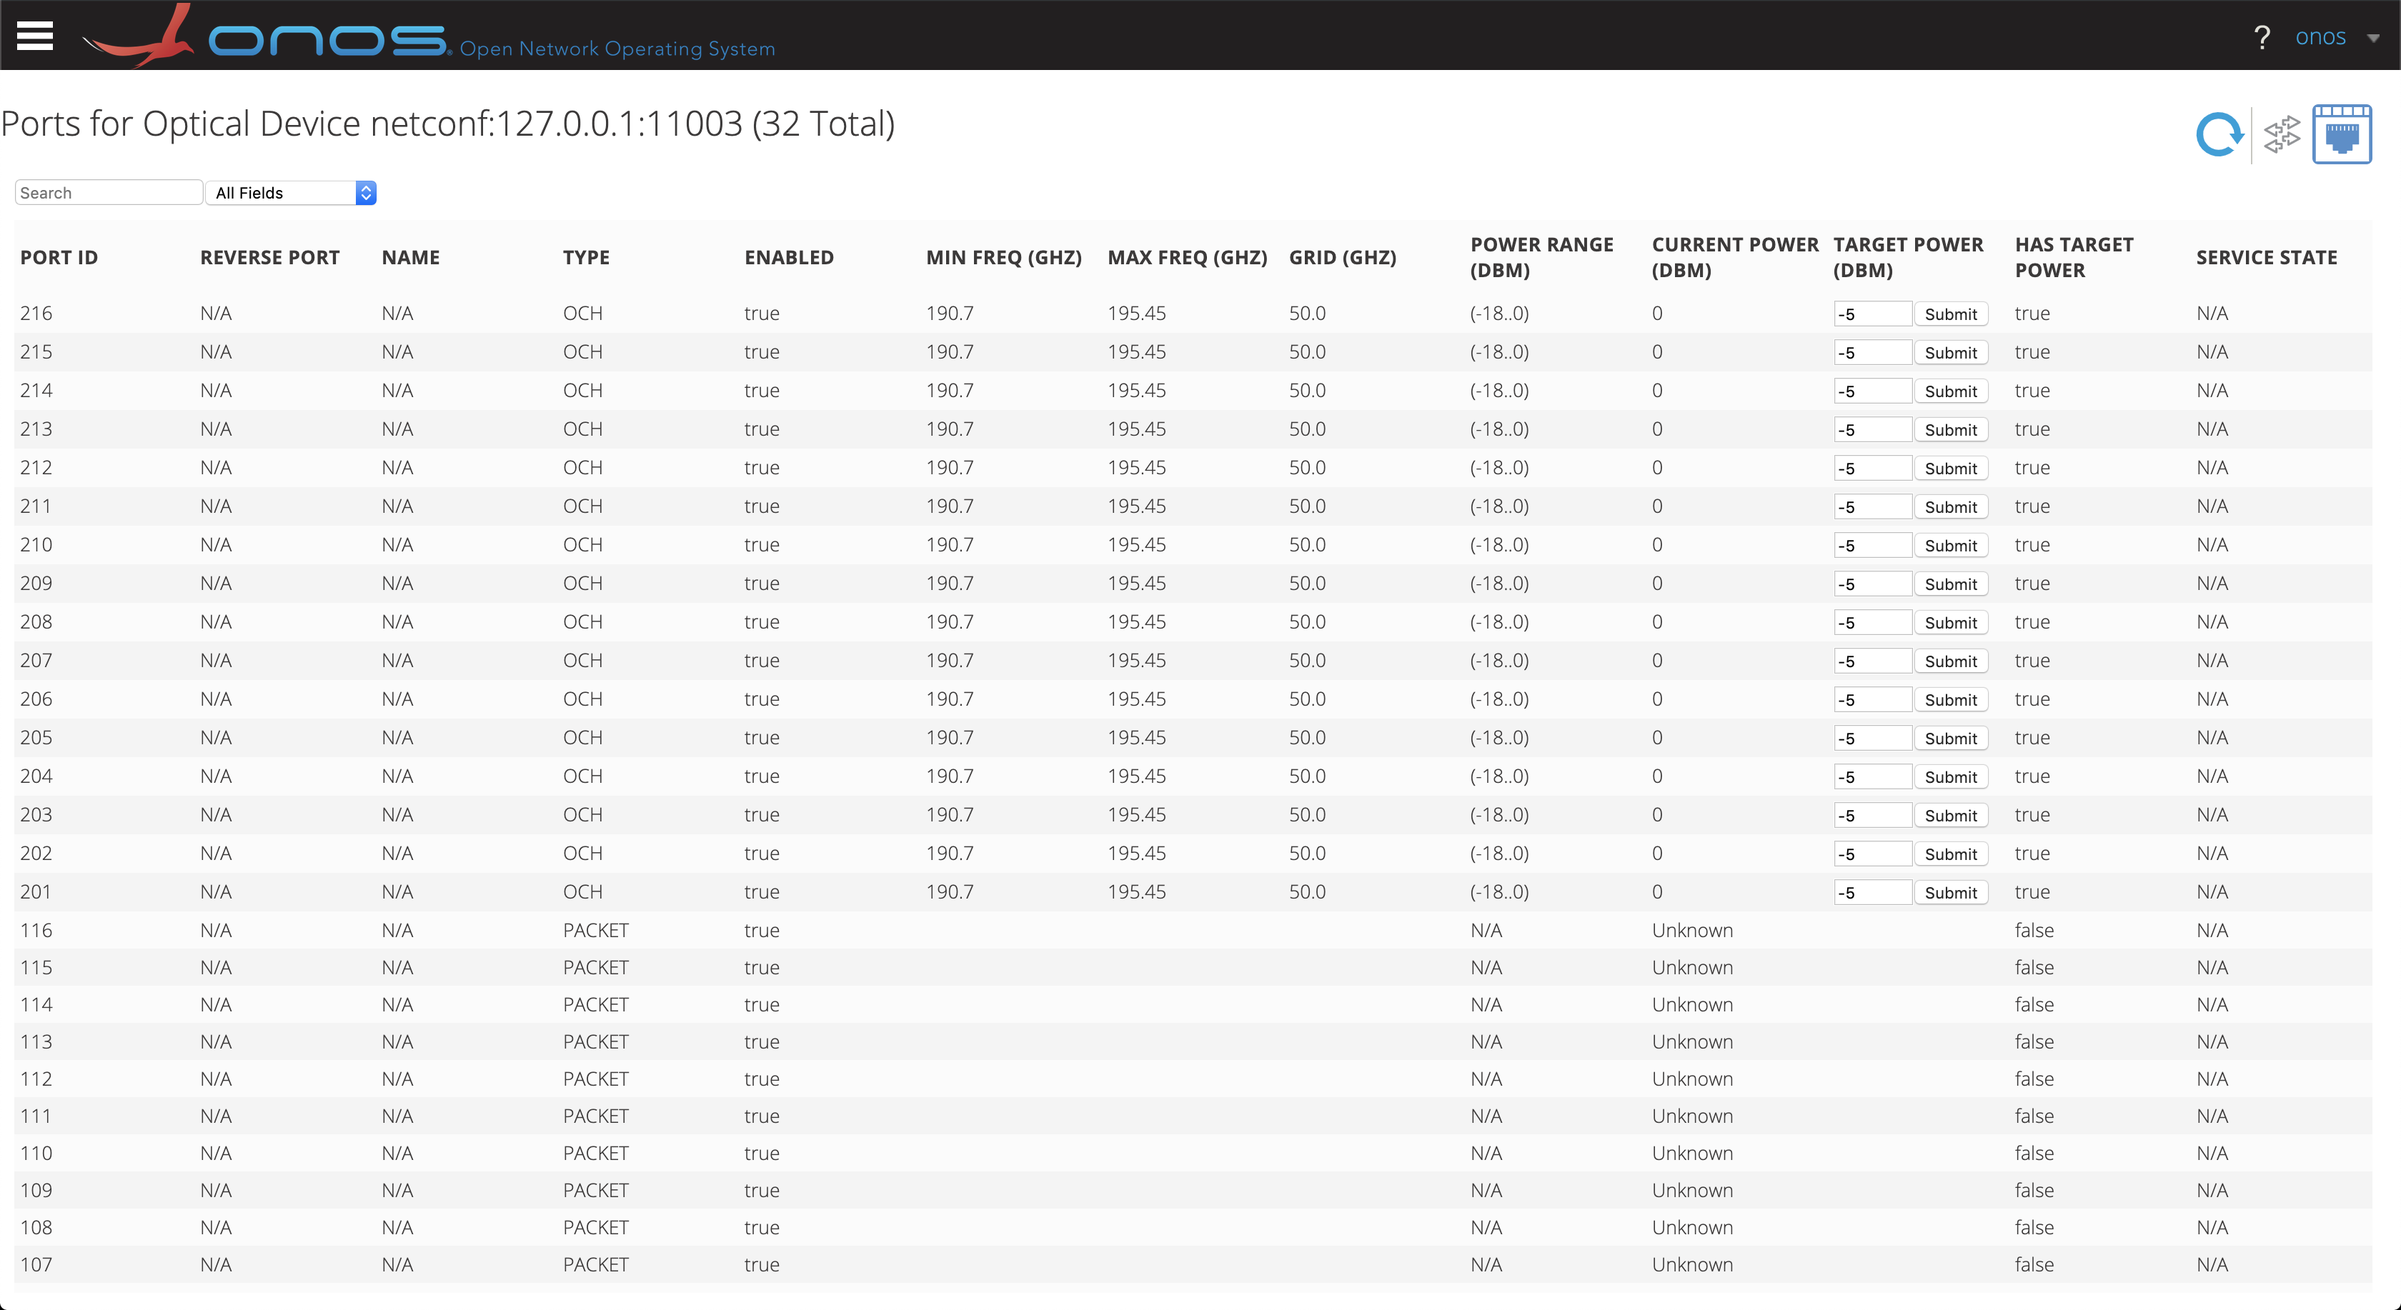
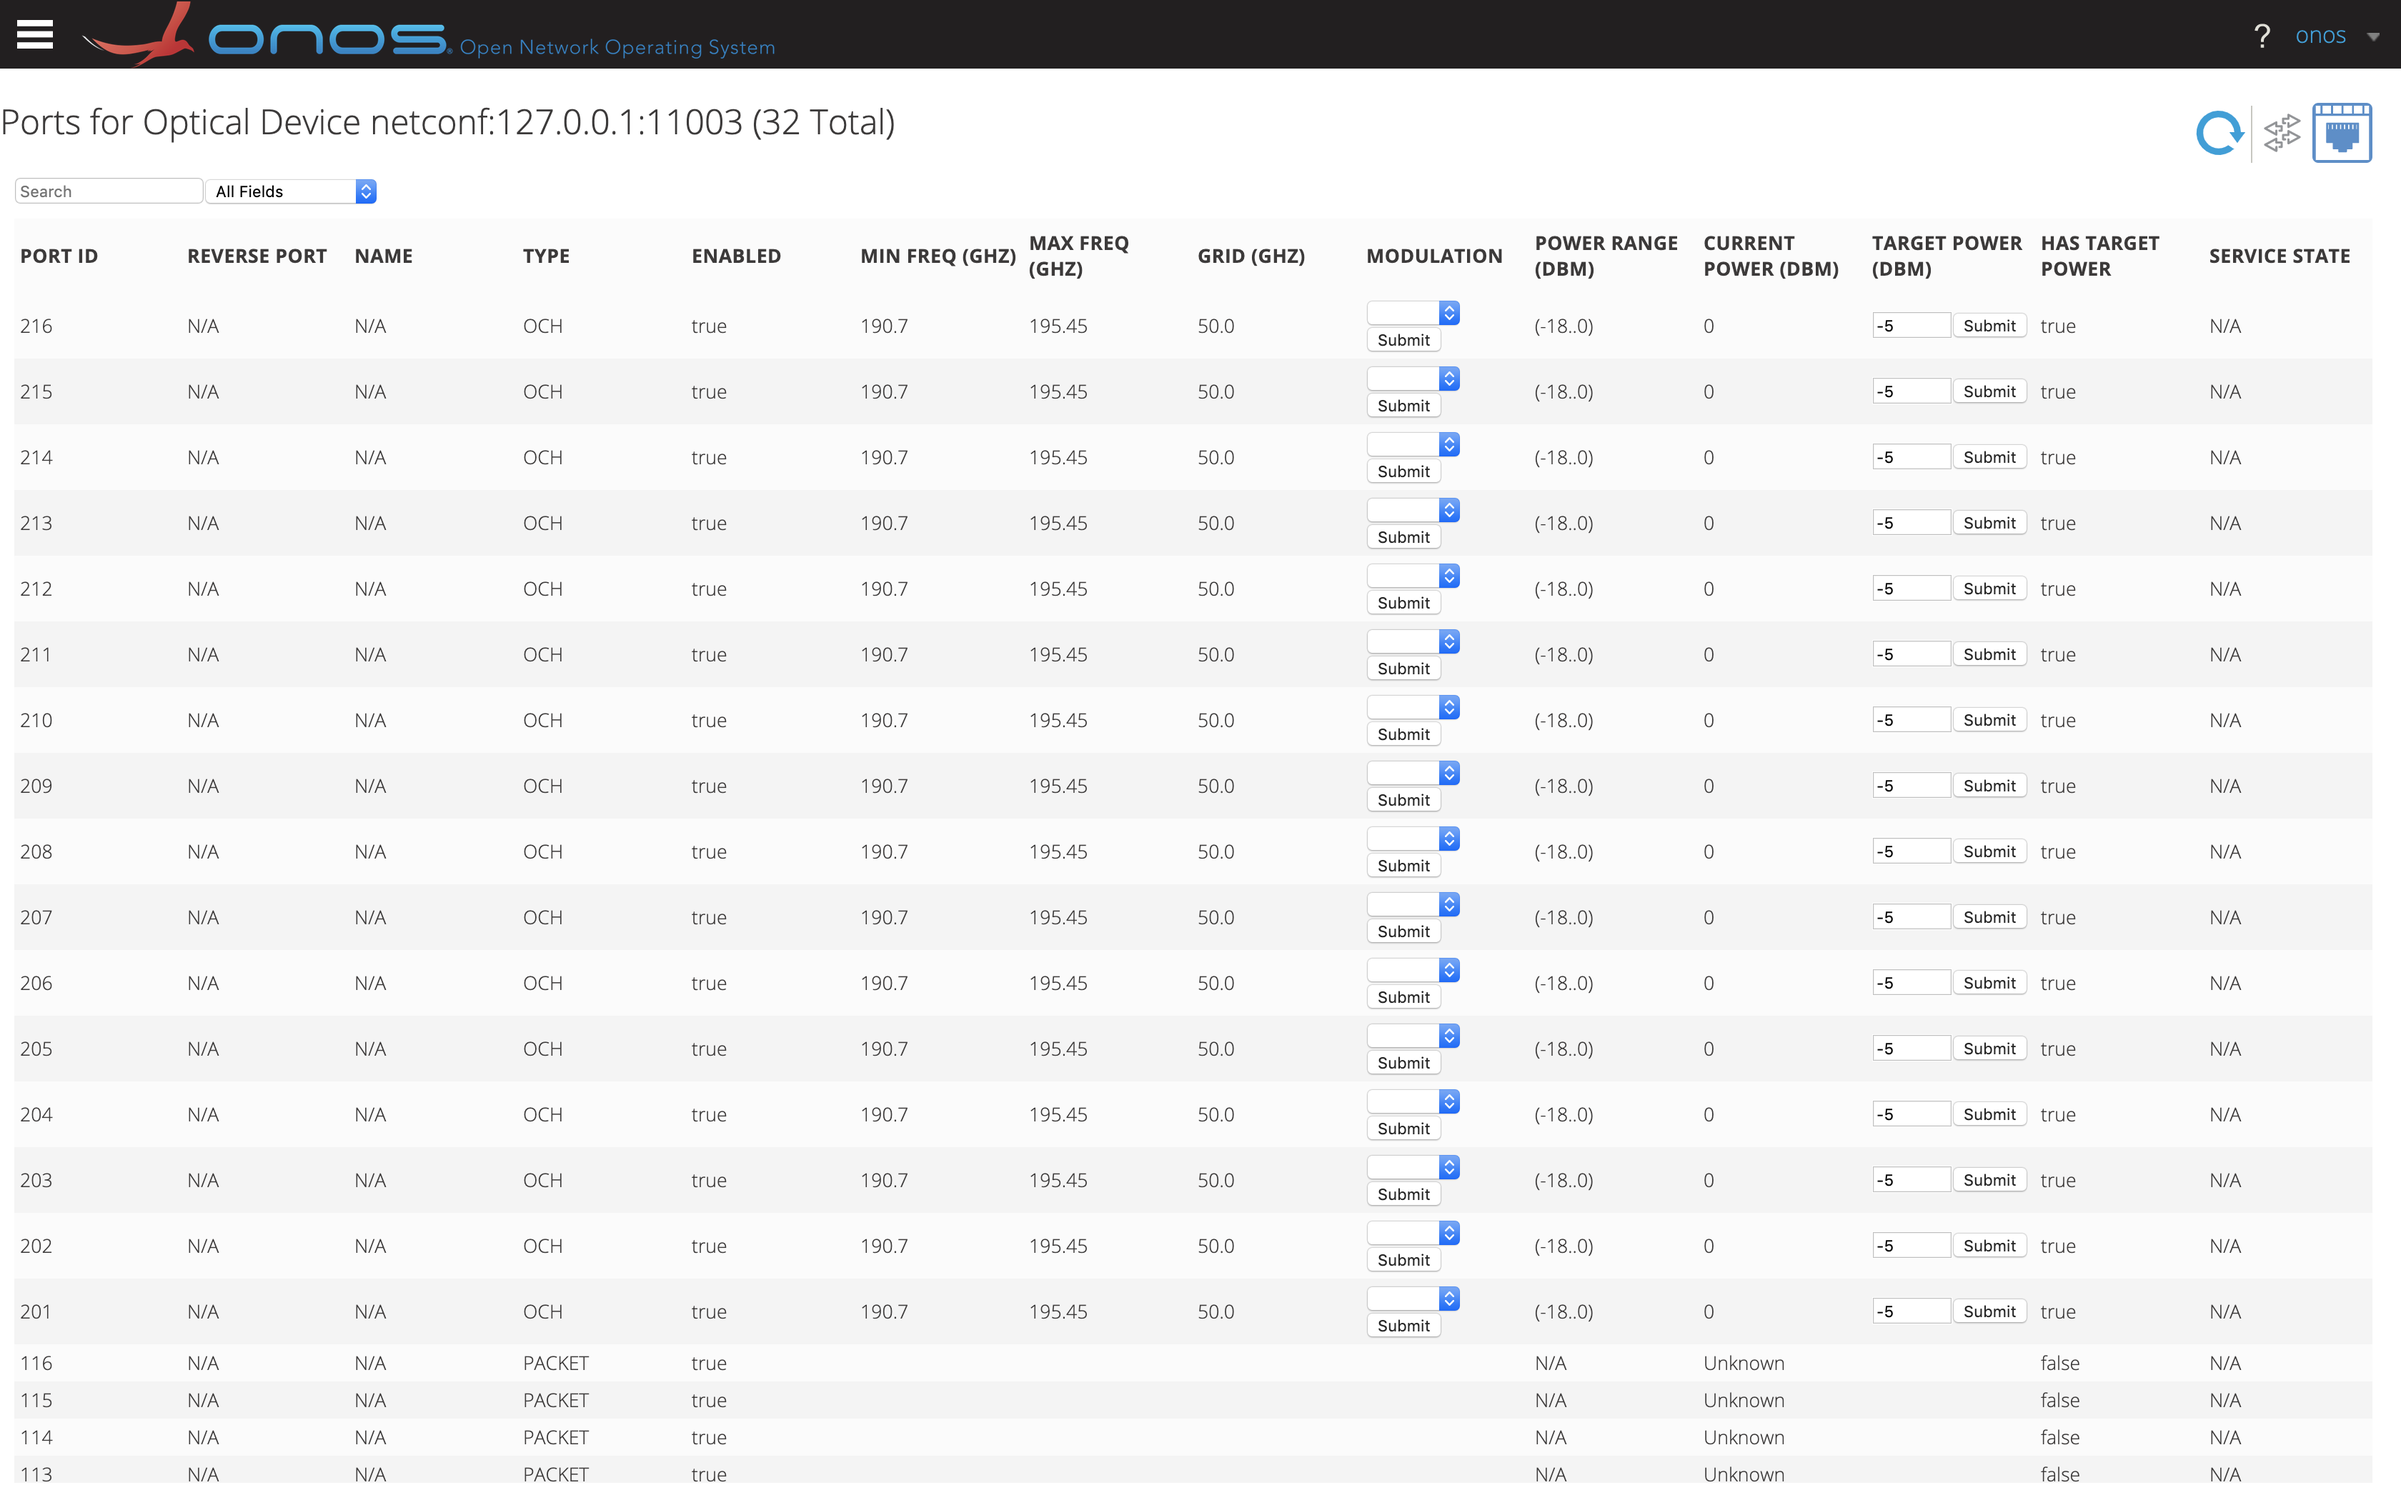
Updating docs with modulation and driver change

diff --git a/docs/gui.md b/docs/gui.md
@@ -3,26 +3,36 @@
 ##  Environment Setup and Topology Discovery 
 Follow the instructions posted [How to build and run ODTN Emulators?](README.md) to setup your environment and push device and link info to ONOS.
 
-## GUI2 View
-1. First, open the home (topology) page of ONOS using by visiting [ONOS GUI](http://localhost:8181/onos/ui). You should be able to see the following output if you setup your enviroment and push topology info properly. 
+## Topology View
+Open the home (topology) page of ONOS using by visiting [ONOS GUI](http://localhost:8181/onos/ui). You should be able to see the following output if you setup your enviroment and push topology info properly. 
 
 ![topo](images/hometopo.png)
 
-2. Second, open the optical device custom view page by visiting [Optical View](http://localhost:8181/onos/ui/#/roadm-gui). You should be able to see the following output:
+## Device View
+Open the optical device custom view page by visiting [Optical View](http://localhost:8181/onos/ui/#/roadm-gui). You should be able to see the following output:
 
 ![roadm](images/roadm.png)
 
-3. Third, select one of the devices and click the icon on the top-right to see the port details for that device. For example, you can see the port details for Cassini1 here:[Port Details For Cassini1](http://localhost:8181/onos/ui/#/roadm-gui/roadm-port-gui?devId=netconf:127.0.0.1:11003). You should be able to see the following output: 
+## Port View
+Select one of the devices and click the icon on the top-right to see the port details for that device. For example, you can see the port details for Cassini1 here:[Port Details For Cassini1](http://localhost:8181/onos/ui/#/roadm-gui/roadm-port-gui?devId=netconf:127.0.0.1:11003). You should be able to see the following output:
 
 ![port_details](images/port_details.png)
 
-4. On the TARGET POWER column, we can type in the power value to modify the power of specific port. For example, we change the power from -5 to -10 as the following Figure illustrates:
+## Configure Power
+
+On the TARGET POWER column, we can type in the power value to modify the power of specific port. For example, we change the power from -5 to -10 as the following Figure illustrates:
 
 ![power_change](images/power_change.png)
 
 However, if the value is out of the available range, the alert appears.
 
 ![power_alert](images/power_alert.png)
+
+## Configure Modulation
+
+On the Modulation column, we can select the modulation value to modify the modulation of specific port. For example, we change the modulation to 16qam as the following figure illustrates:
+
+![modulation_change](images/modulation_change.png)
 
 
 
